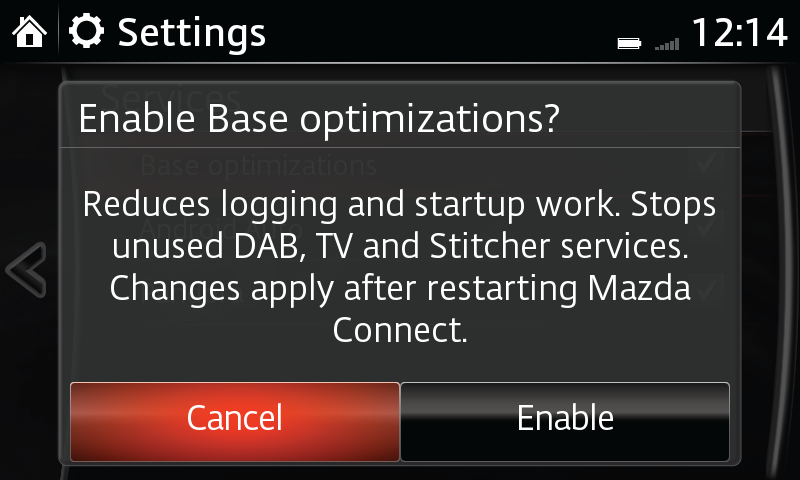
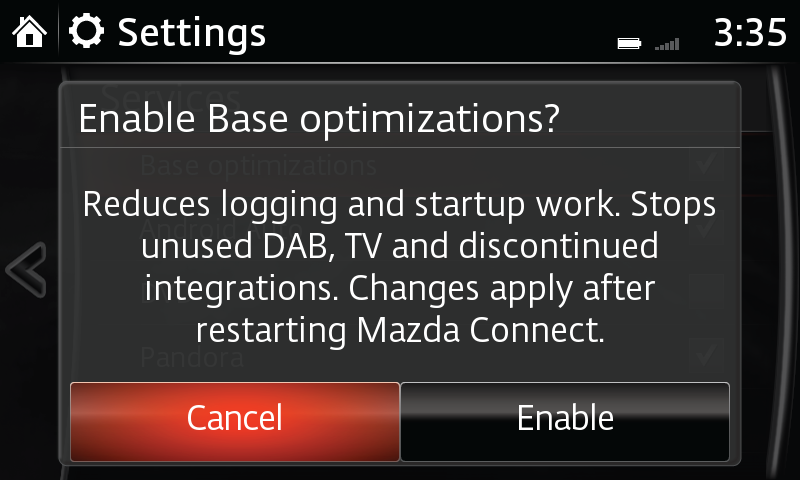
Refresh native Services guide screenshots for dev.15

Changed region(s): [[0.125, 0.4688, 0.875, 0.75], [0.875, 0.0312, 1.0, 0.0938]]

diff --git a/docs/assets/guide/README.md b/docs/assets/guide/README.md
@@ -1,17 +1,27 @@
 # Guide image provenance
 
-## Base confirmation — November 23, 2026
+## Services controls and Base confirmation — November 23, 2026
 
-`base-enable.png` is a direct, unedited 800×480 native screenshot of
-**0.3.0-dev.14** on **74.00.324A NA/cmu150_NA**, reviewed for personal data,
-credentials and diagnostic overlays. Cancel preserved the saved choice.
-Build: [CI 45157300285](https://github.com/aeharding/open-connect/actions/runs/45157300285),
-source [1e4a26c](https://github.com/aeharding/open-connect/tree/1e4a26c4cbcee3f1383d4a418819716a5927a73f).
[1 lines of base64/hex data omitted]
-All 43 public members matched the installed package.
[1 lines of base64/hex data omitted]
-Kernel boot ID: `412b49c5-2e0b-45fa-836c-5689db1de70c`.
-This replaces only the Base confirmation; other captures keep their own identities.
+`services.png` and `base-enable.png` are direct, unedited 800×480 native
+screenshots of **0.3.0-dev.15** on **74.00.324A NA/cmu150_NA**, reviewed for
+personal data, credentials and diagnostic overlays. They show the fresh defaults
+(SiriusXM on, DVD off) and the Base confirmation. Cancel preserved the exact record.
+
+Build: local `make release`, checked against the exact firmware; source
+[9b8fe11](https://github.com/aeharding/open-connect/tree/9b8fe119c3efb5dfc3eb8238853bd0ae2d49d068).
[1 lines of base64/hex data omitted]
+All 42 public entries matched the installed package; `INSTANCE` was its sole private addition.
+The manual SD bench path was used; these are software UI captures, not a new
+physical USB-insertion or tuner/playback qualification.
+
+| Asset | SHA256 | Kernel boot ID |
+| --- | --- | --- |
[2 lines of base64/hex data omitted]
+
+Private capture/state receipts: `runs/wave-b-20261123/{candidate.json,
+services-current.png,base-enable-cancel.png,first-screen.out}`. Git retains the
+superseded dev.14 Base and dev.10 Services images and their own identities.
 
 ## Services candidate captures — November 22, 2026
 
@@ -32,13 +42,10 @@ All 40 public members matched the installed runtime.
[4 lines of base64/hex data omitted]
 
 The update prompt shows dev.10 → dev.10 from a freshly extracted maintenance
 payload, before selecting Uninstall. The completion was reopened after returning from CarPlay. Android Auto is on
-before its Disable confirmation; Cancel preserved the exact record. Services was
-configured to the fresh defaults: Base off and both integrations on. Base Enable
-was cancelled without changing the record. Private
+before its Disable confirmation; Cancel preserved the exact record. Private
 capture receipts are under `runs/developer-options-20261120/screens/dev10-*`;
 installed-byte verification is `runs/services-pilots-20261122/verify-reviewed-dev10.out`.
 

diff --git a/THIRD_PARTY.md b/THIRD_PARTY.md
@@ -21,15 +21,14 @@ its received SHA-256 and was reviewed for personal data, credentials and
 diagnostic overlays. The separately authored `cmu-frame.svg` is a decorative
 bezel displayed around the captures by the website; it is not part of the screen.
 
-Current dev.14, dev.10 and retained dev.8 build identities, capture dates and per-file
-hashes are recorded in the
-[guide asset notes](docs/assets/guide/README.md). The current Services, Android Auto
-and Pandora confirmations, completion and same-version update
-captures show **0.3.0-dev.10** from
+Current dev.15, dev.10 and retained dev.8 build identities, capture dates and per-file
+hashes are recorded in the [guide asset notes](docs/assets/guide/README.md).
+The Services page and Base confirmation show **0.3.0-dev.15** from the local
+exact-firmware-checked build at source `9b8fe119c3efb5dfc3eb8238853bd0ae2d49d068`.
+The unchanged Android Auto and Pandora confirmations, completion and same-version
+update captures show **0.3.0-dev.10** from
 [CI 45016577830](https://github.com/aeharding/open-connect/actions/runs/45016577830),
-source `0b5a4af74cdf8ab15014b3d6de63671fc4808666`. The Base confirmation shows **0.3.0-dev.14** from
-[CI 45157300285](https://github.com/aeharding/open-connect/actions/runs/45157300285),
-source `1e4a26c4cbcee3f1383d4a418819716a5927a73f`. Retained install, Settings,
+source `0b5a4af74cdf8ab15014b3d6de63671fc4808666`. Retained install, Settings,
 developer, wireless and uninstall captures have their separate **0.3.0-dev.8**
 provenance in that same per-file record. Replacing one image does not relabel
 unchanged captures or historical evidence.

diff --git a/docs/services.md b/docs/services.md
@@ -14,8 +14,8 @@ and apply after a full Mazda Connect restart.
 | SiriusXM | **On** | Load Mazda's satellite-radio integrations |
 
 <figure class="oc-screen">
-  <div class="oc-screen-frame"><img src="assets/guide/services.png" alt="Services page with Base optimizations off, Android Auto on and Pandora on." width="800" height="480"></div>
-  <figcaption>Earlier development build. The new candidate adds DVD and SiriusXM choices.</figcaption>
+  <div class="oc-screen-frame"><img src="assets/guide/services.png" alt="Services page with Base off, Android Auto on, DVD off, Pandora on and SiriusXM on." width="800" height="480"></div>
+  <figcaption>Fresh defaults: Base and DVD off; Android Auto, Pandora and SiriusXM on.</figcaption>
 </figure>
 
 ## Base optimizations
@@ -34,7 +34,7 @@ available later in startup; the delay starts at service readiness, independently
 of whether a phone connects. It does not wait for a CarPlay session.
 
 <figure class="oc-screen">
-  <div class="oc-screen-frame"><img src="assets/guide/base-enable.png" alt="Enable Base optimizations confirmation explaining reduced logging, stopped DAB, TV and Stitcher services, and the restart requirement." width="800" height="480" loading="lazy"></div>
+  <div class="oc-screen-frame"><img src="assets/guide/base-enable.png" alt="Enable Base optimizations confirmation explaining reduced logging, stopped unused integrations and the restart requirement." width="800" height="480" loading="lazy"></div>
   <figcaption>Confirm Enable to save the choice.</figcaption>
 </figure>
 
